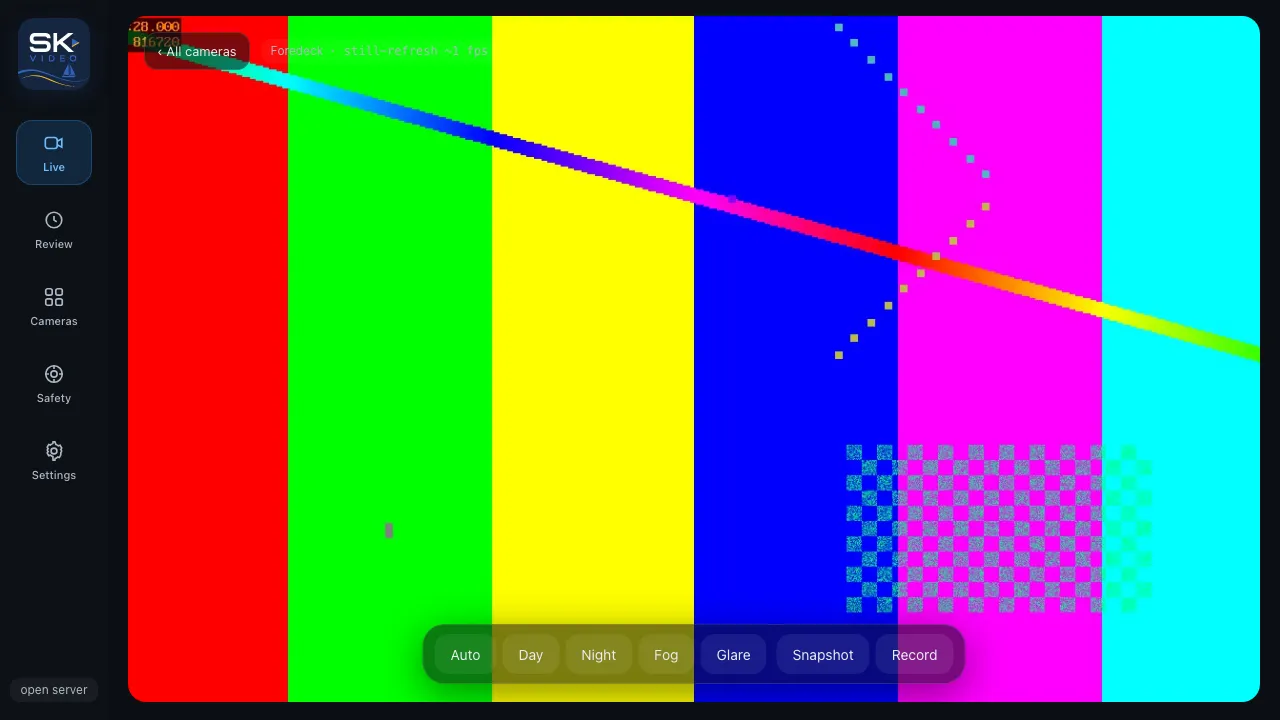
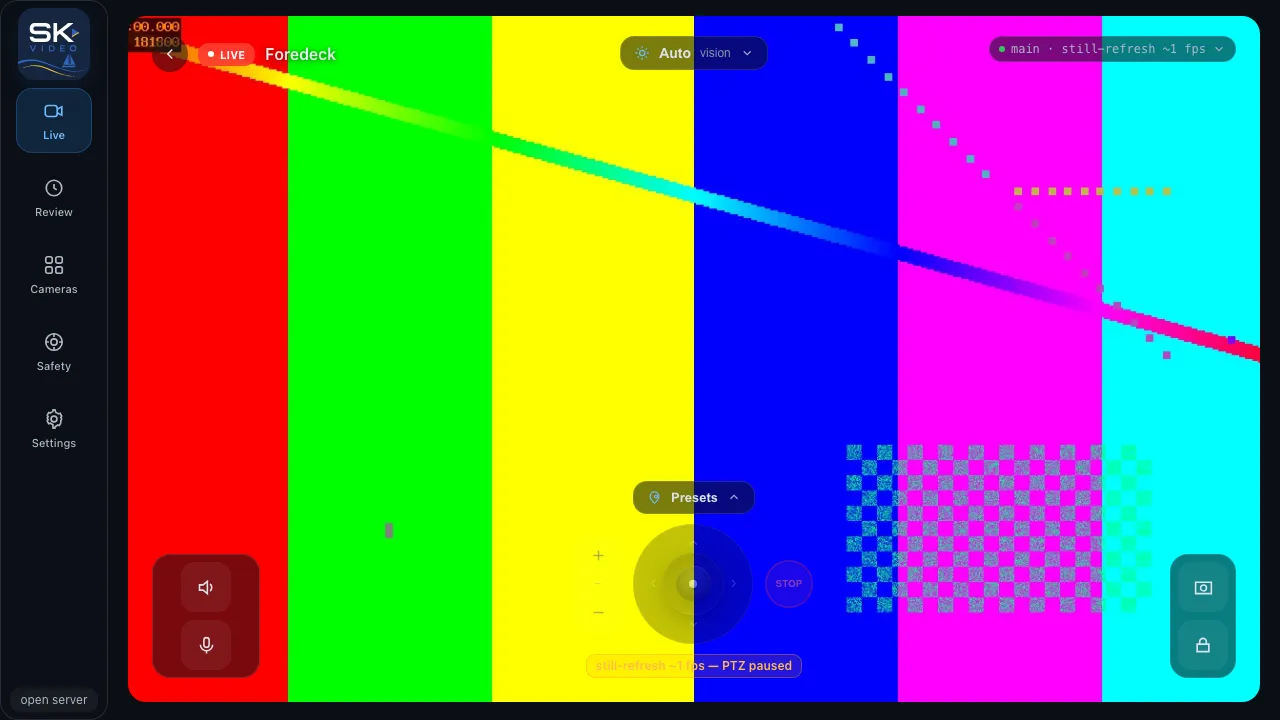
docs: regenerate app screenshots for the redesigned camera controls
Refresh the SK Video app screenshots against the demo stack and add two new ones
that document the recent work:

- app-camera-focus: now shows the floating glass control clusters (vision chip,
  stream chip, the capabilities rail, the PTZ joystick pad + zoom + STOP, and the
  capture pod) instead of the old single dock.
- app-ptz (new): a focused crop of the aim cluster for the "Moving a PTZ camera"
  guide, replacing the KIP-widget ptz shot.
- app-cameras (new): the Cameras management list showing per-camera capability
  chips and the Re-scan button.

The capture spec (webapp.spec.ts) now seeds the hero camera with realistic
capabilities (PTZ/imaging/audio/two-way + device/firmware) so Camera Focus renders
the full cluster set and the Cameras list shows chips; the plain demo cameras stay
uncapabilitied so the list honestly shows "no chips" too. Also refreshes the
Live Wall, Settings, and admin-config shots.

diff --git a/e2e/screenshots/webapp.spec.ts b/e2e/screenshots/webapp.spec.ts
@@ -20,6 +20,18 @@ const DEMO = [
   ['masthead', 'Masthead'],
 ] as const;
 
+// Realistic capabilities for the "hero" camera so Camera Focus renders the full floating-cluster
+// control set (joystick pad + zoom + STOP, vision presets, the Listen / two-way-audio rail, capture pod)
+// and the Cameras list shows capability chips. A Reolink-class PTZ dome — no spotlight/alarm (rare + not
+// something to imply on a demo camera). The others stay plain, so the list honestly shows "no chips" too.
+const HERO_CAPS = {
+  ptz: true,
+  absolutePtz: true,
+  audio: true,
+  audioBackchannel: true,
+  imaging: ['irCut', 'brightness'],
+} as const;
+
 /** Reset to the four named demo cameras (all pointing at the MediaMTX test stream). */
 async function resetCameras(request: APIRequestContext) {
   const list = await request
@@ -36,6 +48,14 @@ async function resetCameras(request: APIRequestContext) {
           name,
           enabled: true,
           source: { scheme: 'rtsp', host: 'mediamtx', port: 8554, path: '/cam' },
+          ...(id === 'foredeck'
+            ? {
+                role: 'navigation',
+                placement: { mount: 'mast', bearingRelativeDeg: 0 },
+                capabilities: HERO_CAPS,
+                device: { manufacturer: 'REOLINK', model: 'RLC-823S2', firmware: 'v3.1.0.0' },
+              }
+            : {}),
         },
       })
       .catch(() => undefined);
@@ -88,6 +108,17 @@ test('webapp: Camera Focus', async ({ page }) => {
   await page.mouse.move(700, 360); // surface the auto-fading control dock
   await page.waitForTimeout(500);
   await shot(page, 'app-camera-focus');
+  // A focused crop of the aim cluster: the glass PTZ joystick pad, zoom pill, and STOP.
+  await shot(page, 'app-ptz', '.ccenter');
+});
+
+test('webapp: Cameras management', async ({ page }) => {
+  await page.goto(`${APP}#/cameras`);
+  await expect(page.getByRole('heading', { name: 'Cameras' })).toBeVisible({ timeout: 15_000 });
+  await expect(page.getByText('Foredeck')).toBeVisible();
+  // Let the capability chips + credential presence resolve so the row is complete.
+  await page.waitForTimeout(1500);
+  await shot(page, 'app-cameras');
 });
 
 test('webapp: Recordings DVR (scrubbed)', async ({ page, request }) => {

diff --git a/docs/guides/viewing.md b/docs/guides/viewing.md
@@ -31,7 +31,7 @@ The same camera can be delivered to your browser three different ways. The SK Vi
 If your camera supports **pan / tilt / zoom** (the plugin detects this automatically when you add it), Camera Focus floats a set of glass controls over the video. The heart of it is a **joystick pad**: drag the centre knob to pan and tilt — the further you push, the faster it moves — or tap one of the four **chevrons** to nudge a step (hold to keep going). Beside it are a **zoom** pill (+ / −, with a live readout) and a red **STOP**. You can also just **drag on the video itself** to steer, pinch or scroll to zoom.
 
 <p align="center">
-  <img src="../images/ptz.webp" alt="The glass PTZ joystick pad, zoom pill, and STOP floating over a live camera" width="85%">
+  <img src="../images/app-ptz.webp" alt="The glass PTZ joystick pad, zoom pill, and STOP floating over a live camera" width="60%">
 </p>
 
 On a slow **still-refresh** feed, continuous panning is disabled on purpose — steering a 1-fps view near a dock is dangerous — and a note tells you why. If a move can't reach the camera, SK Video shows the **reason** ("can't reach the camera's ONVIF service — it may use a non-standard port", "the camera rejected the login", …) rather than a generic "try again", so you know what to fix. (A common one: a camera added by its RTSP address whose ONVIF service is on a different port — SK Video now probes the common ONVIF ports automatically, so this usually just works.)

diff --git a/docs/guides/cameras.md b/docs/guides/cameras.md
@@ -64,6 +64,10 @@ When SK Video adds an ONVIF camera it **detects what the camera can do** and sho
 
 A plain camera that reports nothing shows no chips — SK Video never claims a capability the camera didn't report. These same chips light up the matching controls in [Camera Focus](viewing.md).
 
+<p align="center">
+  <img src="../images/app-cameras.webp" alt="The Cameras list — each camera row with capability chips and a Re-scan button" width="90%">
+</p>
+
 ## Re-scanning capabilities
 
 Each camera row has a **Re-scan** button. It reconnects to the camera with its stored login, re-detects the capabilities, and updates the camera — **without** deleting and re-adding it, so your name, mount, role, and calibration are kept. Use it when:
